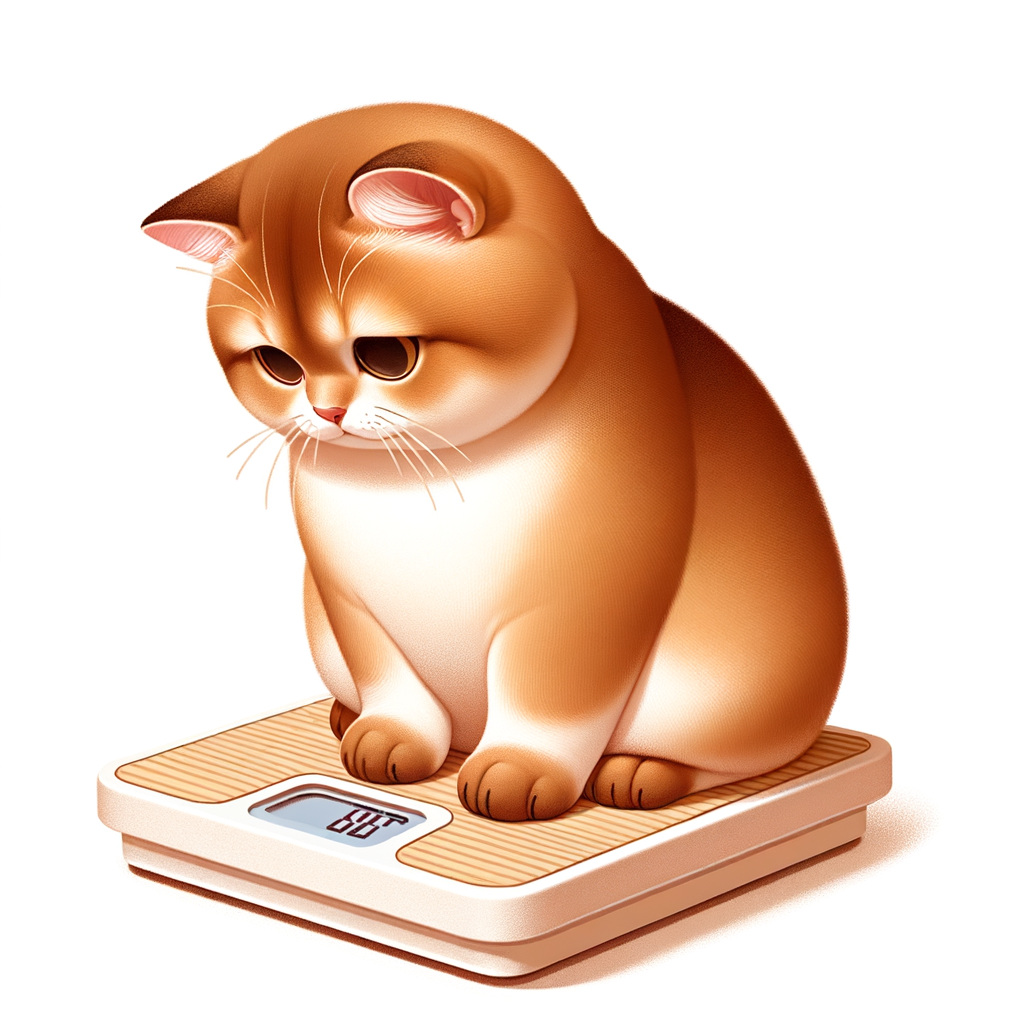
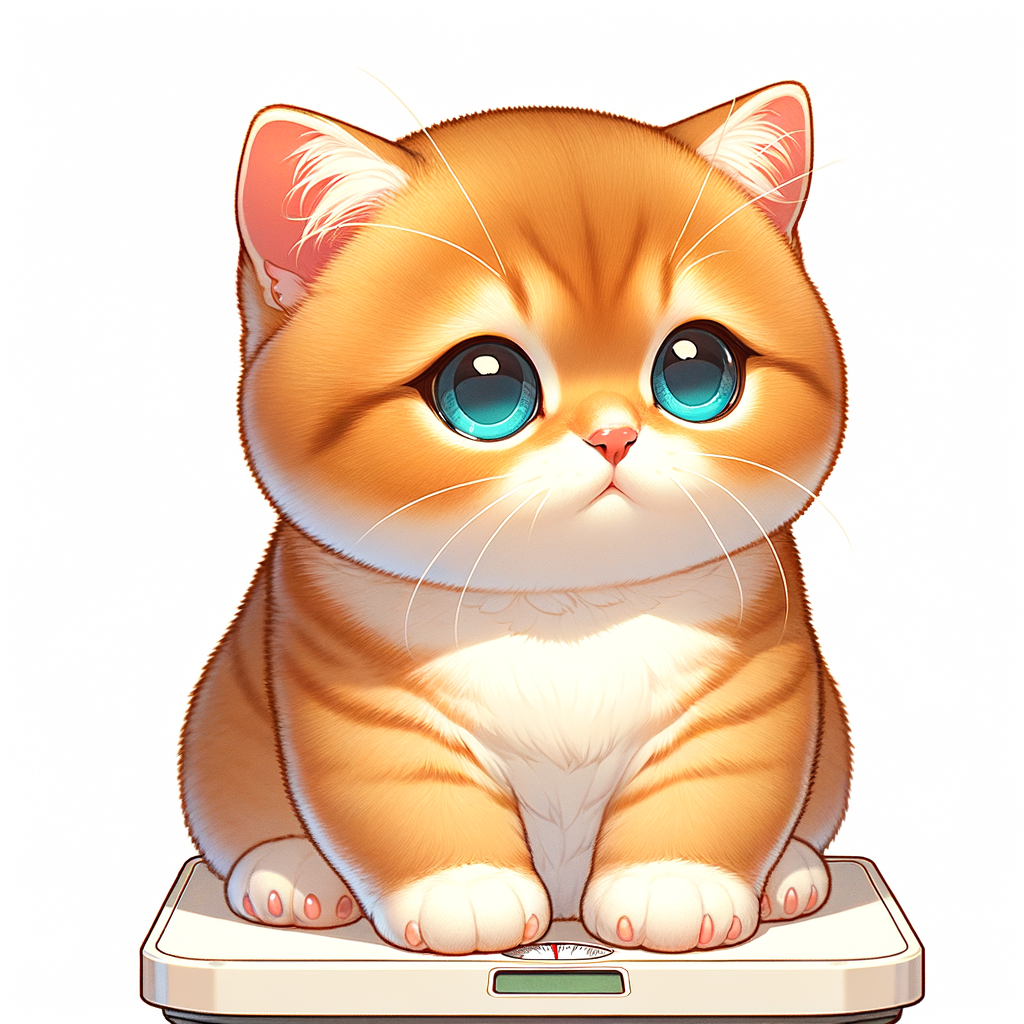
Update illustrations to match real Merry & Pippin, silhouette header
- Regenerated all cat illustrations with accurate blue-green teal eyes,
  golden-tawny fur with white belly/paws matching real cats
- Header two-cats now rendered as subtle transparent silhouette

diff --git a/src/app/page.tsx b/src/app/page.tsx
@@ -475,7 +475,7 @@ export default function Dashboard() {
           <p className="text-white/80 text-sm">Growth Tracker</p>
           <p className="text-white/60 text-xs mt-1">{format(new Date(), "EEEE, MMMM d, yyyy")}</p>
         </div>
-        <div className="absolute -right-2 -bottom-2 opacity-50">
+        <div className="absolute -right-2 -bottom-2 opacity-15" style={{ filter: "brightness(2)" }}>
           <TwoCatsSitting size={140} />
         </div>
         {/* Dropdown menu */}
